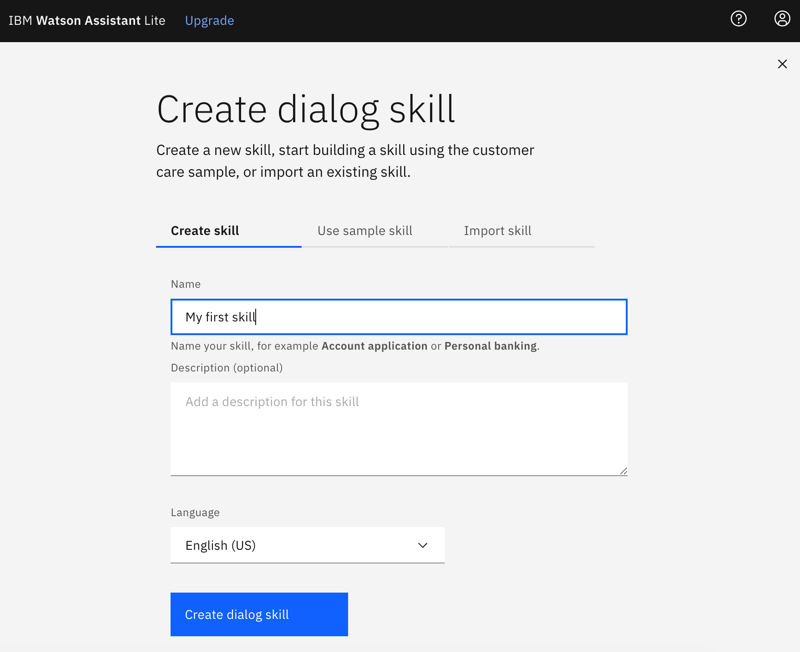
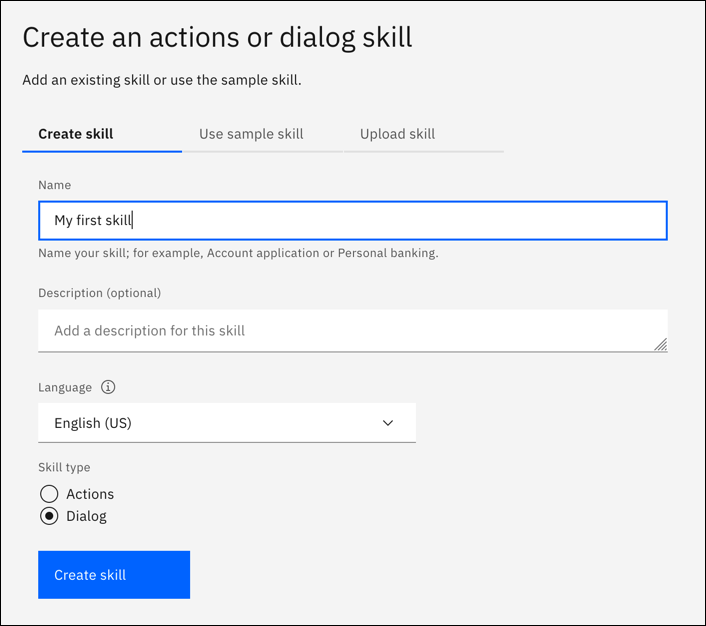
Changes for 1.149 coexistence removal

diff --git a/getting-started.md b/getting-started.md
@@ -2,7 +2,7 @@
 
 copyright:
   years: 2015, 2021
-lastupdated: "2021-02-09"
+lastupdated: "2021-05-27"
 
 keywords: assistant, omnichannel, virtual agent, virtual assistant, chatbot, conversation, watson assistant, watson conversation
 
@@ -68,19 +68,17 @@ A new browser tab or window opens and {{site.data.keyword.conversationshort}} is
 
 An assistant named **My first assistant** is created for you automatically. An *assistant* is a chatbot. You add skills to your assistant so it can interact with your customers in useful ways.
 
-A skill named **My first skill** is added to the assistant for you automatically.
+A skill named **My first skill** is added to the assistant for you automatically. The type of skill that is added is different for different users. The skill will be either a dialog skill or an actions skill.
 
-The type of skill that is added is different for different users. The skill will be either a dialog skill or an actions skill.
+- If *Actions* is displayed as the first item, you have an actions skill.
 
-- If *Actions* is displayed as the first item in the page navigation, you have an actions skill.
-
-  ![Shows the actions skill initial page](images/gs-actions-skill.png)
+  ![Shows the actions skill](images/gs-actions-skill.png)
 
   If you have an actions skill, continue the tutorial by reading [Getting started with an actions skill](/docs/assistant?topic=assistant-gs-actions).
 
-- If *Intents* is displayed as the first item in the page navigation, you have a dialog skill.
+- If *Dialog* is displayed as the first item, you have a dialog skill.
 
-  ![Shows the Intents page of My first skill](images/gs-intents-page.png)
+  ![Shows the dialog skill](images/gs-dialog-skill.png)
 
   If you have a dialog skill, continue the tutorial by reading [Getting started with a dialog skill](/docs/assistant?topic=assistant-gs-dialog).
 
@@ -99,6 +97,7 @@ An *assistant* is a cognitive bot to which you add skills that enable it to inte
 1.  Name the assistant `My first assistant`.
 
     ![Finish creating the new assistant](images/gs-create-assistant-done.png)
+
 1.  Click **Create assistant**.
 
 ## Create a dialog skill
@@ -107,19 +106,20 @@ An *assistant* is a cognitive bot to which you add skills that enable it to inte
 
 A *dialog skill* is a container for the artifacts that define the flow of a conversation that your assistant can have with your customers.
 
-1.  Click the *My first assistant* tile to open the assistant.
+1.  Click **Add an actions or dialog skill**.
 
-1.  Click **Add dialog skill**.
-
-    ![Shows the Add skill button from the home page](images/gs-add-dialog-skill.png)
+    ![Add actions or dialog skill button](images/gs-addskill.png)
 
 1.  Give your skill the name `My first skill`.
+
 1.  **Optional**. If the dialog you plan to build will use a language other than English, then choose the appropriate language from the list.
+
+1.  For skill type, choose Dialog.
 
     ![Finish creating the skill](images/gs-add-skill-done.png)
 
-1.  Click **Create dialog skill**.
+1.  Click **Create skill**.
 
-    The skill is created and opens to the *Intents* page.
+    The skill is created and appears in your assistant.
 
 To continue with the tutorial, see [Getting started with a dialog skill](/docs/assistant?topic=assistant-gs-dialog).

diff --git a/actions.md b/actions.md
@@ -2,7 +2,7 @@
 
 copyright:
   years: 2020, 2021
-lastupdated: "2021-05-20"
+lastupdated: "2021-05-27"
 
 subcollection: assistant
 
@@ -164,8 +164,9 @@ To create actions, complete the following steps:
 
 To delete a step, complete the following steps:
 
-1.  Open the step that you want to delete.
-1.  Click the *Step options* icon ![Overflow menu](images/kebab.png), and then choose **Delete step**.
+1.  Select or hover on the step that you want to delete.
+1.  Click the *Delete* icon.
+1.  In the confirmation dialog, choose **Delete**.
 
 ### Applying reply constraints
 {: #actions-response-types}
@@ -333,13 +334,13 @@ To add a session variable, complete the following steps:
 
 1.  Do one of the following things:
 
-    - From within a step, click the *step options* ![overflow menu](images/step-options.png) icon, and then choose **Set variable values**. Click **Set new value**, and then click **New session variable**.
+    - From within a step, choose the **Set variable values** icon. Click **Set new value**, and then click **New variable**.
 
       The option to create a new session variable is only available starting from step 2.
       {: tip}
-    - From the main actions skill page, click to open the *Session variables* page. Click **New session variable**. 
+    - From the main actions skill page, click to open the *Variables - Created by you* page. Click **New variable**. 
 
-      If you can't see the **New session variable** button, you might need to close the Preview pane.
+      If you can't see the **New variable** button, you might need to close the Preview pane.
       {: tip} 
 1.  Add a name for the session variable.
 
@@ -349,7 +350,7 @@ To add a session variable, complete the following steps:
 1.  If it's not already set, set the session variable value.
 
     - Add a step to collect the data that you want to store in the session variable.
-    - In a later step, click the *step options* ![overflow menu](images/step-options.png) icon, and then choose **Set variable values**. Click **Set new value**.
+    - In a later step, choose the **Set variable values** icon, and then choose **Set variable values**. Click **Set new value**.
     - Choose the session variable name, and then set it to the step variable for the step that collects the data.
 
       For example, this choice sets the `membership status` session variable value:
@@ -394,7 +395,7 @@ To use an expression to define a complex step condition:
 
 To use an expression to define a session variable value:
 
-1.  From the step, click the *step options* ![overflow menu](images/step-options.png) icon, and then choose **Set variable values**. Click **Set new value**.
+1.  From the step, choose the **Set variable values** icon, and then choose **Set variable values**. Click **Set new value**.
 
 1.  Choose the session variable that you want to define a value for. 
 

diff --git a/skills-choose.md b/skills-choose.md
@@ -2,7 +2,7 @@
 
 copyright:
   years: 2020, 2021
-lastupdated: "2021-04-14"
+lastupdated: "2021-05-27"
 
 subcollection: assistant
 
@@ -91,8 +91,8 @@ Over time, the actions skill will have greater feature parity with the dialog sk
 
 For some functions, there is parity but you follow different steps to implement the behavior you want.
 
-- **Jump-to**: In an actions skill, you cannot jump from one action to another. However, you can jump from one step to another. In a dialog skill, you use a jump-to to skip to a specific dialog node in the same branch of the conversation. With an actions skill, you can jump to a different step within an action also. However, to do so, you use conditions on the intervening steps to prevent them from being processed, rather than using an explicit jump-to. The benefit of this approach is that it's easier to anticipate the path of a conversation and follow it later if there are not multiple jump-tos sprinkled throughout the flow. 
+- **Jump-to**: In an actions skill, you can jump from one step to another. In a dialog skill, you use a jump-to to skip to a specific dialog node in the same branch of the conversation. With an actions skill, you can jump to a different step within an action also. However, to do so, you use conditions on the intervening steps to prevent them from being processed, rather than using an explicit jump-to. The benefit of this approach is that it's easier to anticipate the path of a conversation and follow it later if there are not multiple jump-tos sprinkled throughout the flow. 
 - **Slots**: In a dialog skill, you add slots to a dialog node to call out a set of values that you want to collect from the user, and that you will take and store in any order. In the actions skill, every step in the action acts like a slot. If the user provides information that address step 10 when answering the question to step 1, both step 1 and step 10 are filled. In fact, if you want step 10 to ask the question explicitly, you must select the **Always as for this** option on step 10.
 
-*Want to get started with actions, but need features that are available only from dialog skills right now?* Use both. Call an action from your dialog skill to perform a discrete task. For more information, see [Calling an actions skill from dialog](/docs/assistant?topic=assistant-dialog-call-action).
-{: important}
+<!-- *Want to get started with actions, but need features that are available only from dialog skills right now?* Use both. Call an action from your dialog skill to perform a discrete task. For more information, see [Calling an actions skill from dialog](/docs/assistant?topic=assistant-dialog-call-action).
+{: important} -->

diff --git a/skill-add.md b/skill-add.md
@@ -2,7 +2,7 @@
 
 copyright:
   years: 2018, 2021
-lastupdated: "2021-03-02"
+lastupdated: "2021-05-27"
 
 subcollection: assistant
 
@@ -40,8 +40,8 @@ You can add the following types of skills to your assistant:
 
   If you can't decide which type of conversational skill to create, see [Choosing a conversational skill](/docs/assistant?topic=assistant-skills-choose).
 
-  If you add both a dialog skill and an actions skill to your assistant, the dialog skill is used. You can configure your dialog skill to process individual actions from your actions skill by following the steps in [Calling an actions skill from a dialog](/docs/assistant?topic=assistant-dialog-call-action).
-  {: tip}
+  <!-- If you add both a dialog skill and an actions skill to your assistant, the dialog skill is used. You can configure your dialog skill to process individual actions from your actions skill by following the steps in [Calling an actions skill from a dialog](/docs/assistant?topic=assistant-dialog-call-action).
+  {: tip}-->
 
 - **Search skill** ![Plus or higher plans only](images/plus.png): Leverages information from existing corporate knowledge bases or other collections of content authored by subject matter experts to address unanticipated or more nuanced customer inquiries. For a given user query, uses the {{site.data.keyword.discoveryfull}} service to search a data source of your self-service content and return an answer. [Learn more](#skill-add-search-skill)
 
@@ -96,10 +96,13 @@ The following diagram illustrates how user input is processed when both a dialog
 ## Creating a skill
 {: #skill-add-task}
 
-You can add one skill of each skill type to an assistant.
+You can add one conversation skill (actions or dialog) and one search skill to an assistant.
 
+### Conversation
 - [Actions skill](/docs/assistant?topic=assistant-skill-actions-add)
 - [Dialog Skill](/docs/assistant?topic=assistant-skill-dialog-add)
+
+### Search
 - [Search Skill](/docs/assistant?topic=assistant-skill-search-add)
 
 ## Skill limits

diff --git a/gs-dialog.md b/gs-dialog.md
@@ -2,7 +2,7 @@
 
 copyright:
   years: 2015, 2021
-lastupdated: "2021-04-22"
+lastupdated: "2021-05-27"
 
 subcollection: assistant
 content-type: tutorial
@@ -44,7 +44,7 @@ A *dialog skill* uses Watson natural language processing and machine learning te
 {: #gs-dialog-prerequisites}
 {: hide-dashboard}
 
-This tutorial is a continuation of the **Getting started** tutorial. Be sure to complete it before you continue. See [Getting started](/docs/assistant?topic=assistant-getting-started).
+This tutorial is a continuation of the **Getting started with Watson Assistant** tutorial. Be sure to complete it before you continue. See [Getting started with Watson Assistant](/docs/assistant?topic=assistant-getting-started).
 
 If available in your location, a tour begins that you can step through to learn about the product. Follow the tour; it provides a great overview of the product. Otherwise, you can complete the following steps.
 
@@ -53,6 +53,8 @@ If available in your location, a tour begins that you can step through to learn 
 {: step}
 
 The Intents page is where you start to train your assistant. In this tutorial, you will add training data that was built by IBM to your skill. Prebuilt intents are available from the content catalog. You will give your assistant access to the **General** content catalog so your dialog can greet users, and end conversations with them.
+
+1.  Make sure your **My first skill** is open.
 
 1.  Click **Content Catalog** from the Skills menu.
 

diff --git a/skill-actions-add.md b/skill-actions-add.md
@@ -2,7 +2,7 @@
 
 copyright:
   years: 2020, 2021
-lastupdated: "2021-01-19"
+lastupdated: "2021-05-27"
 
 subcollection: assistant
 
@@ -40,7 +40,7 @@ Each action contains a series of steps that represent individual exchanges with 
 
 To add an actions skill, complete the following steps:
 
-1.  From the assistant where you want to add the skill, click **Add an actions skill**.
+1.  From the assistant where you want to add the skill, click **Add an actions or dialog skill**.
 
 1.  Take one of the following actions:
 
@@ -65,6 +65,6 @@ To add an actions skill, complete the following steps:
 
 1.  Click **Create actions skill**.
 
-If you add only an actions skill to the assistant, the action skill starts the conversation. If you add both a dialog skill and actions skill to an assistant, the dialog skill starts the conversation. And actions are recognized only if you configure the dialog skill to call them.
+<!-- If you add only an actions skill to the assistant, the action skill starts the conversation. If you add both a dialog skill and actions skill to an assistant, the dialog skill starts the conversation. And actions are recognized only if you configure the dialog skill to call them. -->
 
 Add actions to your actions skill. For more information, see [Adding actions](/docs/assistant?topic=assistant-actions).

diff --git a/release-notes.md b/release-notes.md
@@ -2,7 +2,7 @@
 
 copyright:
   years: 2015, 2021
-lastupdated: "2021-05-20"
+lastupdated: "2021-05-27"
 
 subcollection: assistant
 
@@ -62,6 +62,16 @@ Existing models that you have trained will not be immediately impacted, but expi
 {: #release-notes-tooling-changes}
 
 The change log lists changes that were made this year, ordered by the date they were released.
+
+## 27 May 2021
+{: #27May2021}
+<!--1.149-->
+- **Change to conversation skill choices**: When adding skills to new or existing assistant, the conversation skill choices have been combined, so that you pick from either an actions skill or a dialog skill. 
+
+  With this change:
+  - New assistants can use up to two skills, either actions and search or dialog and search. Previously, new assistants could use up to three skills: actions, dialog, and search.
+  - Existing assistants that already use an actions skill and a dialog skill together can continue to use both.
+  - The ability to use actions and dialog skills together in a new assistant is planned for 2H 2021.
 
 ## 20 May 2021
 {: #20May2021}

diff --git a/assistant-add.md b/assistant-add.md
@@ -2,7 +2,7 @@
 
 copyright:
   years: 2018, 2021
-lastupdated: "2021-03-01"
+lastupdated: "2021-05-27"
 
 subcollection: assistant
 
@@ -99,7 +99,7 @@ To rename an assistant, follow these steps:
 ### Changing the skill that is associated with the assistant
 {: #assistant-add-swap-skill}
 
-You can add one skill of each skill type to an assistant. If you want to change a skill that your assistant is using, you can swap one skill for another skill.
+You can add one conversation skill (actions or dialog) and one search skill to an assistant. If you want to change a skill that your assistant is using, you can swap one conversation skill or one search skill for another skill.
 
 1.  From the Assistants page, open the assistant.
 
